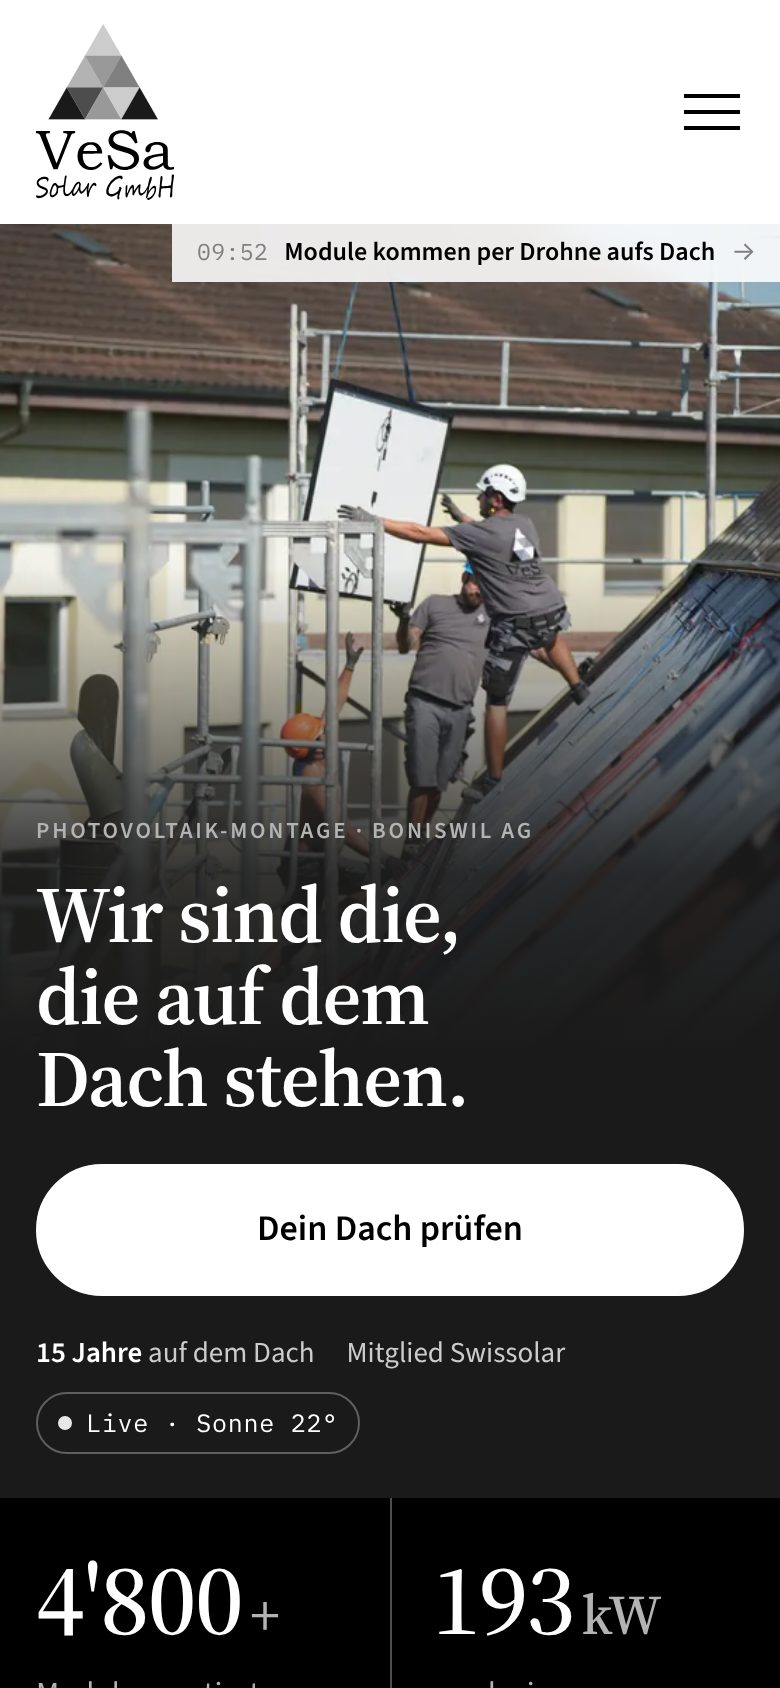
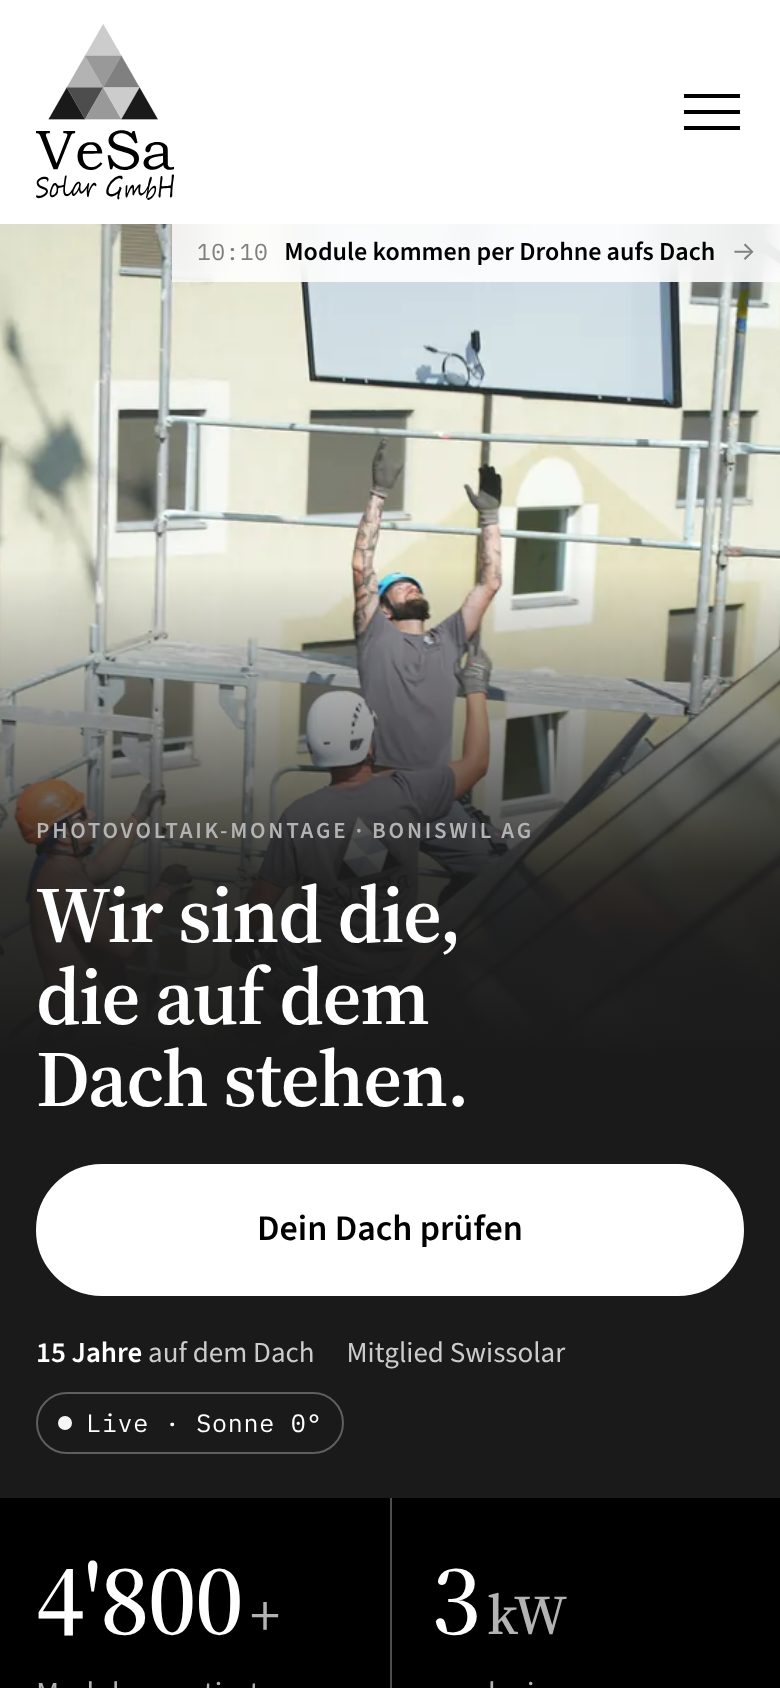
Slider: erstes Bild durch A7408112 ersetzt, enger zugeschnitten wegen Kamin (VES-024)
Claude-Session: https://claude.ai/code/session_01AmTsxfm8VPSTvFxMghAZew

diff --git a/entwuerfe/entwurf-e.html b/entwuerfe/entwurf-e.html
@@ -219,13 +219,13 @@ html[data-cap="ohne"] .cap{display:none}
 
 <div class="hero2" id="hero">
  <div class="slides" id="slides">
-  <figure class="slide on" data-t="Module kommen per Drohne aufs Dach" data-s="09:52" style="--d:60% 40%;--m:64% 40%"><img src="../fotos/auftrag/drohne-anflug-1600.webp" srcset="../fotos/auftrag/drohne-anflug-900.webp 900w, ../fotos/auftrag/drohne-anflug-1600.webp 1600w, ../fotos/auftrag/drohne-anflug-2400.webp 2400w" sizes="100vw" alt="Ein Solarmodul hängt an der Drohne, das Team nimmt es auf dem Gerüst an"></figure>
+  <figure class="slide on" data-t="Module kommen per Drohne aufs Dach" data-s="10:10" style="--d:50% 18%;--m:52% 20%"><img src="../fotos/auftrag/modul-annahme-1600.webp" srcset="../fotos/auftrag/modul-annahme-900.webp 900w, ../fotos/auftrag/modul-annahme-1600.webp 1600w, ../fotos/auftrag/modul-annahme-2400.webp 2400w" sizes="100vw" alt="Ein Solarmodul schwebt an der Drohne heran, drei Monteure auf dem Gerüst strecken die Hände danach"></figure>
   <figure class="slide" data-t="Oben nimmt das Team sie an" data-s="10:10" style="--d:60% 35%;--m:66% 30%"><img src="../fotos/auftrag/team-geruest-1600.webp" srcset="../fotos/auftrag/team-geruest-900.webp 900w, ../fotos/auftrag/team-geruest-1600.webp 1600w, ../fotos/auftrag/team-geruest-2400.webp 2400w" sizes="100vw" alt="Zwei Monteure mit Helm auf dem Gerüst schauen dem nächsten Modul entgegen" loading="lazy"></figure>
   <figure class="slide" data-t="Der Pilot fliegt vom Kamin aus" data-s="09:44" style="--d:55% 40%;--m:52% 45%"><img src="../fotos/auftrag/pilot-kamin-1600.webp" srcset="../fotos/auftrag/pilot-kamin-900.webp 900w, ../fotos/auftrag/pilot-kamin-1600.webp 1600w, ../fotos/auftrag/pilot-kamin-2400.webp 2400w" sizes="100vw" alt="Der Drohnenpilot sitzt mit Helm und Fernsteuerung auf dem Kamin" loading="lazy"></figure>
   <figure class="slide" data-t="Unterbau ab halb acht" data-s="07:33" style="--d:50% 40%;--m:52% 40%"><img src="../fotos/auftrag/unterbau-morgen-1600.webp" srcset="../fotos/auftrag/unterbau-morgen-900.webp 900w, ../fotos/auftrag/unterbau-morgen-1600.webp 1600w, ../fotos/auftrag/unterbau-morgen-2400.webp 2400w" sizes="100vw" alt="Ein Monteur schraubt die Schienen der Unterkonstruktion auf das Ziegeldach" loading="lazy"></figure>
   <figure class="slide" data-t="Drohne startklar" data-s="09:06" style="--d:62% 50%;--m:74% 50%"><img src="../fotos/auftrag/drohne-startklar-1600.webp" srcset="../fotos/auftrag/drohne-startklar-900.webp 900w, ../fotos/auftrag/drohne-startklar-1600.webp 1600w, ../fotos/auftrag/drohne-startklar-2400.webp 2400w" sizes="100vw" alt="Zwei Männer stehen auf einer Wiese neben der startklaren Transportdrohne" loading="lazy"></figure>
  </div>
- <a class="cap" href="#system" id="cap"><span id="cap-s">09:52</span><b id="cap-t">Module kommen per Drohne aufs Dach</b><span class="cap-l">→</span></a>
+ <a class="cap" href="#system" id="cap"><span id="cap-s">10:10</span><b id="cap-t">Module kommen per Drohne aufs Dach</b><span class="cap-l">→</span></a>
  <div class="live" id="live">
    <div class="t"><b>Live · Boniswil</b><span id="lv-time">–</span></div>
    <div class="sun"><svg viewBox="0 0 260 70" id="sunpath"></svg></div>

diff --git a/LOGBUCH.md b/LOGBUCH.md
@@ -208,3 +208,17 @@ Die Vorgeschichte steht im formateins-Logbuch unter ENT-078 bis ENT-082.
   Monteur am Dachfirst zwischen den Modulen, A7407664 Modulfeld mit Wald).
   Offen: Adrian sagt, wofür; Ort, Module, kWp und das Einverständnis des
   Hofs.
+- [x] **VES-024** · 03.11.2026 · **Erstes Slider-Bild getauscht** (Adrian
+  schickt ein Bild: «verwende dieses, das andere ist unscharf. etwas
+  hineinzoomen wegen des Kamins»). Das Bild ist A7408112 (10:10, per
+  Bildvergleich gefunden, Übereinstimmung 0,98), es ersetzt A7408094 als
+  erstes Bild «Module kommen per Drohne aufs Dach», gleicher Moment, das
+  Modul schwebt über dem Team. Aus dem Original zugeschnitten: 80 % der
+  Fläche, links 20 % weg, damit der Kamin nur noch am Rand steht, oben
+  bündig, damit das Modul ganz bleibt. Aufbereitet als
+  `fotos/auftrag/modul-annahme-*.webp`, die alten Dateien
+  `drohne-anflug-*.webp` entfernt, Kontaktbogen neu. Uhrzeit in der Karte
+  jetzt 10:10. Geprüft auf 375 und 390 px und Desktop, hell und dunkel,
+  keine fehlenden Dateien, keine Skriptfehler. Annahme: «das andere» meint
+  das erste Bild mit demselben Motiv; falls das Team-Bild gemeint war, ist
+  der Tausch ein Schritt.
